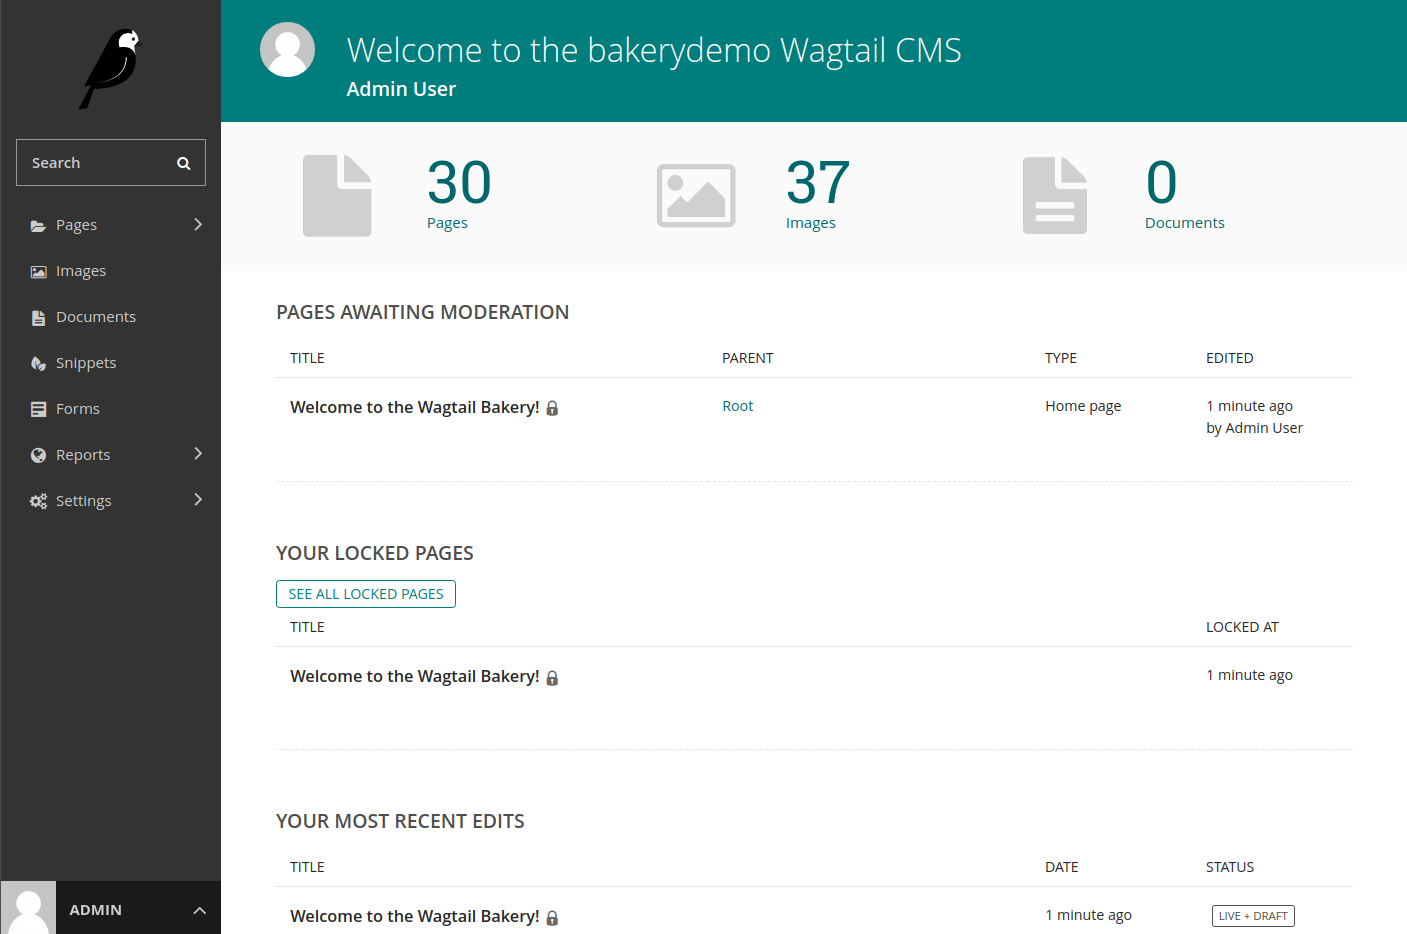
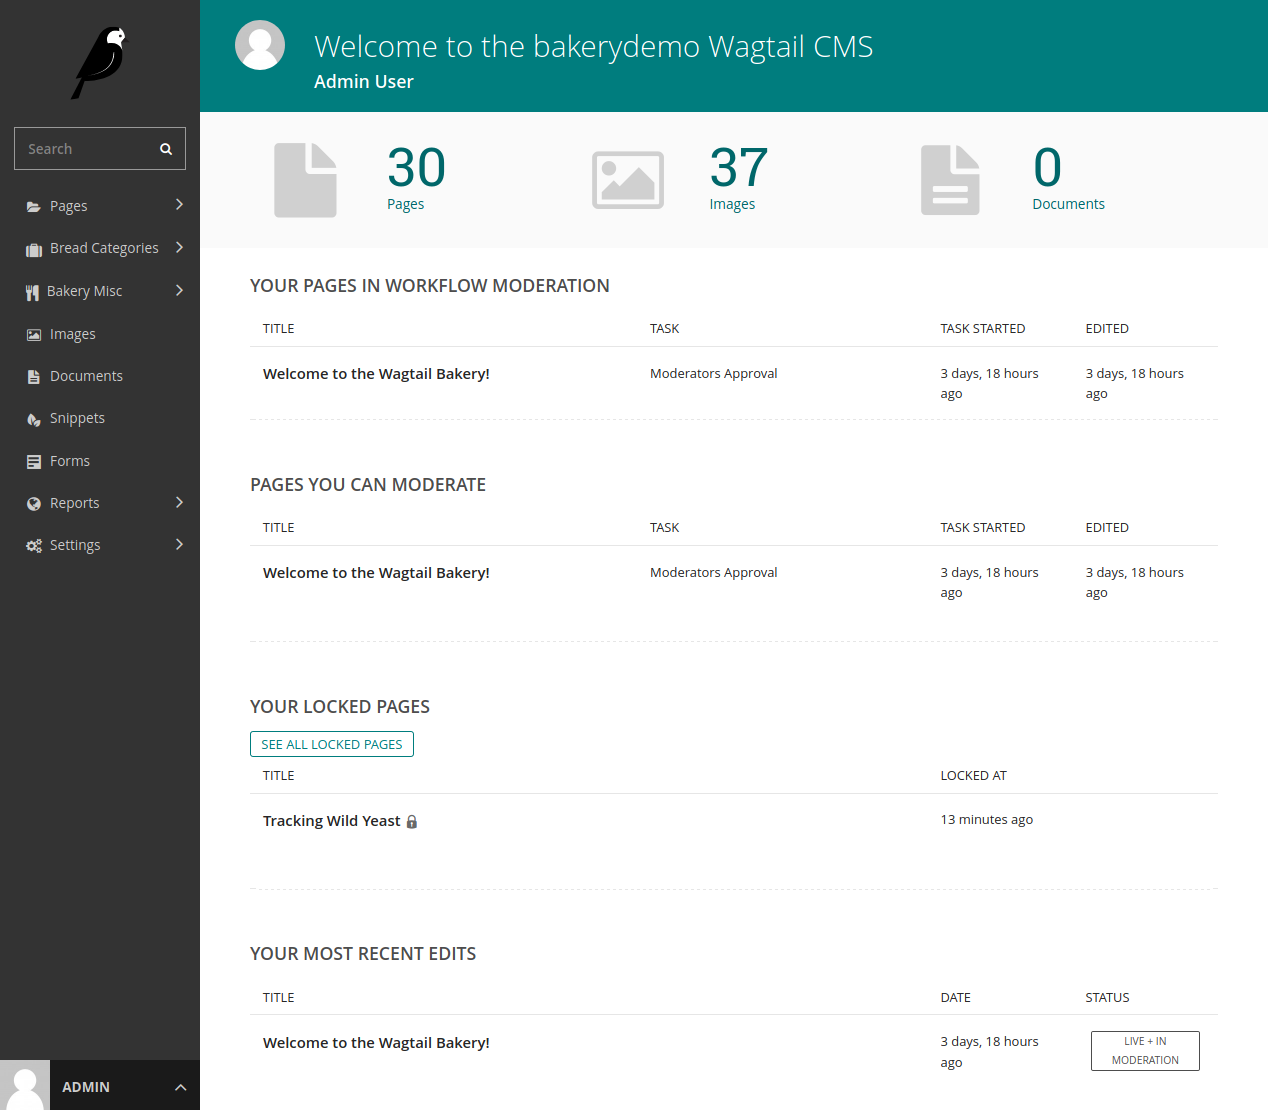
Update editor manual moderation references, and add info on new dashboard panels for workflow, including a new screenshot

diff --git a/docs/editor_manual/new_pages/previewing_and_submitting_for_moderation.rst b/docs/editor_manual/new_pages/previewing_and_submitting_for_moderation.rst
@@ -4,7 +4,7 @@ Previewing and submitting pages for moderation
 The Save/Preview/Submit for moderation menu is always present at the bottom of the page edit/creation screen. The menu allows you to perform the following actions, dependent on whether you are an editor, moderator or administrator:
 
 * **Save draft:** Saves your current changes but doesn't submit the page for moderation and so won’t be published. (all roles)
-* **Submit for moderation:** Saves your current changes and submits the page for moderation. A moderator will be notified and they will then either publish or reject the page. This button may be missing if the site administrator has :ref:`disabled moderation<wagtail_moderation_enabled>`.  (all roles)
+* **Submit for moderation:** Saves your current changes and submits the page for moderation. A moderator will be notified and they will then either publish or reject the page. This button may be missing if the site administrator has :ref:`disabled moderation<wagtail_moderation_enabled>`, or hasn't assigned a workflow to this part of the site.  (all roles)
 * **Preview:** Opens a new window displaying the page as it would look if published, but does not save your changes or submit the page for moderation. (all roles)
 * **Publish/Unpublish:** Clicking the *Publish* button will publish this page. Clicking the *Unpublish* button will take you to a confirmation screen asking you to confirm that you wish to unpublish this page. If a page is published it will be accessible from its specific URL and will also be displayed in site search results. (moderators and administrators only)
 * **Delete:** Clicking this button will take you to a confirmation screen asking you to confirm that you wish to delete the current page. Be sure that this is actually what you want to do, as deleted pages are not recoverable. In many situations simply unpublishing the page will be enough. (moderators and administrators only)

diff --git a/docs/editor_manual/finding_your_way_around/the_dashboard.rst b/docs/editor_manual/finding_your_way_around/the_dashboard.rst
@@ -16,11 +16,15 @@ You can return to the Dashboard at any time by clicking the Wagtail logo in the 
 
 - Clicking the logo returns you to your Dashboard.
 - The stats at the top of the page describe the total amount of content on the CMS (just for fun!).
-- The *Pages awaiting moderation* table will only be displayed if you have moderator or administrator privileges
+
+- The *Your pages in workflow moderation* table shows you any pages in moderation that you own or submitted for moderation yourself, along with which
+  moderation tasks they are currently on.
+
+- The *Pages you can moderate* table will only be displayed if you are able to perform moderation actions.
 
   - Clicking the name of a page will take you to the ‘Edit page’ interface for this page.
-  - Clicking approve or reject will either change the page status to live or return the page to draft status. An email will be sent to the creator of the page giving the result of moderation either way.
-  - The *Parent* column tells you what the parent page of the page awaiting moderation is called. Clicking the parent page name will take you to its Edit page.
+  - Clicking approve or reject will either progress the page to the next task in the moderation workflow (or publish if it's the final stage) or return the page to draft status. An email will be sent to the creator of the page giving the result of the overall workflow when it completes.
+  - The *Task* column shows which moderation task the page is currently in, and the *Task started* column when it
 
 - The *Your locked pages* table shows the pages you've locked so that only you can edit them.
 - The *Locked At* column displays the date you locked the page.
